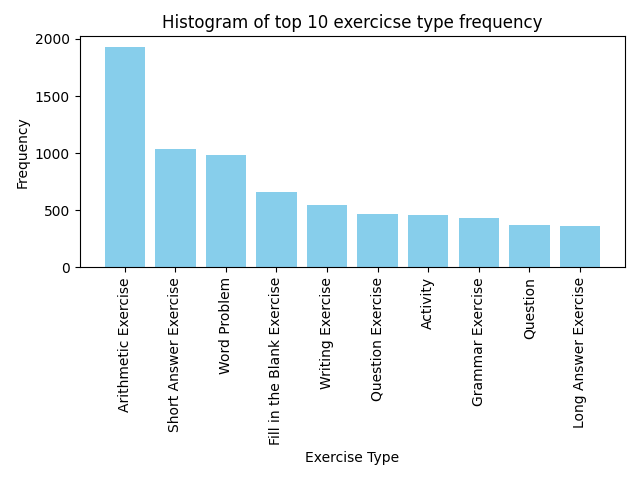
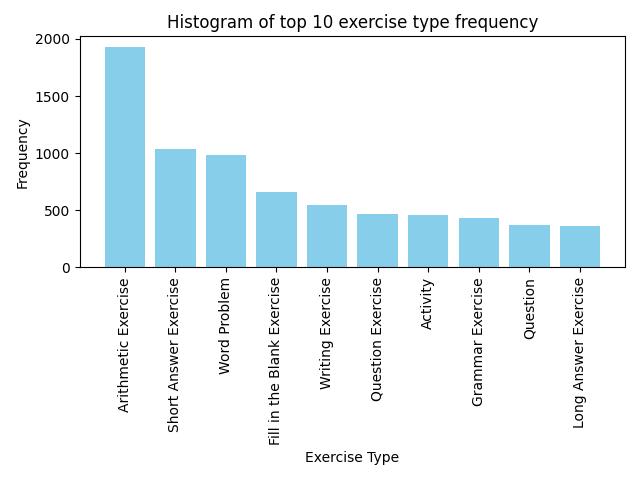
Implement multi-dimensional stratification

Changed region(s): [[0.25, 0.0312, 0.8438, 0.0625]]

diff --git a/preprocess.py b/preprocess.py
@@ -8,6 +8,220 @@ from collections import defaultdict
 from rapidfuzz import fuzz
 import matplotlib.pyplot as plt
 
+def get_removed(p: str, removed: dict) -> str:
+    # If parameter is an alias we output the source, otherwise output the origin
+    return removed[p] if removed[p] else p
+
+def get_param(q, param_idx, counts: dict = None, removed: dict = None, check_multi = False) -> str | bool:
+    single = True
+
+    # Get the header of the question
+    header = q.split("\n", 1)[0]
+
+    # Extract the parameter(s) from the header
+    param = get_params(header)[param_idx]
+
+    # Check for multi-parameter strings
+    if param_idx in (1, 3) and removed:
+        params = param.split(',')
+        single = len(params) == 1
+        c = 0
+        # Choose the parameter with the lowest count
+        for p in params:
+            # Check if the parameter is an alias
+            p = get_removed(p.strip(), removed)
+            if not c:
+                c = counts[p]
+
+            if counts[p] <= c:
+                param = p
+    else:
+        # Clean the parameter
+        param = param.strip()
+
+    return single if check_multi else param
+
+def stratify_and_recombine(splits: list, removed: dict, classify: tuple[bool, int], n_counts: dict = None, ratios = [7,2,1]) -> list:
+    new_splits = []
+
+    # Stratify by a certain parameter
+    for split in splits:
+        new_splits.append(stratified_split(split, removed, n_counts, ratios=ratios, classify=classify))
+
+
+    # Recombine the splits
+    merged = new_splits[0]
+    for sublist in new_splits[1:]:
+        for idx, d in enumerate(sublist):
+            if classify[0]:
+                for key, value in d.items():
+                    merged[idx][key].extend(value)
+            else:
+                merged[idx].extend(d)
+    
+    return merged
+
+def choice_logic(list1: list, list2: list) -> str | None:
+    """ Implements the logic for selecting a sample from two lists (unique and multi-class).
+    List1 gets priority over list2.
+
+    Args:
+        list1 (list): The primary list which we want to draw from.
+        list2 (list): The secondary list.
+
+    Returns:
+        str | None: A sample or None if both lists are empty. 
+    """
+    if len(list1) != 0:
+        return list1.pop()
+    elif len(list2) != 0:
+        return list2.pop()
+    else: 
+        return None
+
+def update_class(questions: list, counts: dict, param_idx: tuple[int, int], splits: list,
+                ratios: list, removed: dict = None, max_samples = 10, skip = False) -> None:
+    """ Allocates samples to a train, validation and test set using a stratification algorithm.
+    The train set has priority over the remainder of sets and also primarily obtains "unique" samples.
+    The validation set has priority over the test set and both primarily obtain multi-class samples.
+
+    Args:
+        questions (list): A list of questions containing questions pertaining to the class 'label'.
+        counts (dict): A dictionary of frequency of occurrence for the new class we are sorting the stratified set by.
+        param_idx (tuple[int, int]): The index position of the desired parameter we are counting while stratifying.
+        splits (list): A list containing the train, validation and test splits.
+        ratios (list): A list representing the ratio which we should follow in allocating samples to each respective set.
+        removed (dict, optional): A mapping of removed class labels to their new label. Defaults to None.
+        max_samples (int, optional): The maximum number of samples that we will allocate in this function call. Defaults to 10.
+        skip (bool, optional): Whether to treat the splits as dictionaries (False) or as lists (True). Defaults to False.
+    """
+
+    # Initialize a list to hold the different samples
+    multi, unique = [], []
+
+    # Split the questions on a basis of whether they have a unique or multi-class label
+    for q in questions: 
+
+        # Get the parameter used for stratification
+        single = get_param(q, param_idx[0], counts, removed, True)
+            
+        # Update the sub classes accordingly
+        (unique if single else multi).append(q)
+
+    # Initialize a 2^14 bit integer to keep track of the number of samples in each split
+    count = 0
+
+    for _ in range(len(questions)):
+        
+        # Check which split has priority
+        idx = find_idx(max_samples, count, ratios)
+  
+        # Select a sample based on the split we are allocating to
+        # Val/Test will always be idx 1 or 2
+        # Train will always be idx 0
+        # Val/Test sets prioritize multi-class parameters; Train set prioritizes unique
+        q = choice_logic(multi, unique) if idx else choice_logic(unique, multi)
+
+        # If q is None, we've run out of samples so we stop updating the split
+        if q == None:
+            return q
+        
+        # Update the counter for the class count in each split
+        count += (1 << (14 * idx))
+
+        if skip:
+            # Update the split without paying attention to class 
+            splits[idx].append(q)
+        else:
+            # Get the parameter used for classification
+            param = get_param(q, param_idx[1], counts, removed)
+
+            splits[idx][param].append(q)
+
+def find_idx(max_samples: int, splits: int | list, ratios: list) -> int:
+    """ Returns the index of the split that has the highest priority of allocation (based on the current percentages of samples allocated to each split).
+
+    Args:
+        max_samples (int): The maximum number of samples that we will allocate in this function call.
+        splits (int | list): A bit-representation of the count of this class in each set or a list containing the containers for each split.
+        ratios (list): A list representing the ratio which we should follow in allocating samples to each respective set.
+
+    Returns:
+        int: The index of the split which is next in line for allocation.
+    """
+    # Add all ratios together
+    total = sum(ratios)
+
+    # Compute the percentages of samples allocated to each split relative to their ideal allocations
+    if type(splits) == int:
+        percentages = [((splits >> (14 * i)) & 16383) * (total / (max_samples * r)) for i, r in enumerate(ratios)]
+    else:
+        percentages = [len(s) * (total / (max_samples * r)) for r, s in zip(ratios, splits)]
+
+    # Find the split with the smallest percentage allocation (relative to its ideal allocation)
+    # Splits get higher priority based on their positions
+    idx = 0
+    lowest = percentages[idx]
+    for i, p in enumerate(percentages[1:]):
+        if p < lowest:
+            lowest = p
+            idx = i + 1
+    return idx
+    
+
+def stratified_split(questions: dict, removed: dict = None, n_counts: dict = None, n_splits = 3, ratios = [6, 2, 2], classify: tuple[bool, tuple[int, int]] = (False, None)) -> list:
+    """ Performs a stratified split on a dataset.
+
+    Args:
+        questions (dict): A dictionary mapping labels to subsets of questions.
+        removed (dict): A dictionary mapping parameter names to their general parameter assigned after grouping.
+        f_counts (dict): A dictionary of counts for the next parameter we will use to stratify.
+        n_splits (int, optional): The total number of splits to perform. Defaults to 3.
+        ratios (list, optional): A list representing the ratio which we should follow in allocating samples to each respective set.. Defaults to [7, 2, 1].
+        classify (tuple[bool, tuple[int, int]], optional): A tuple determining whether there will be more classes to stratify and the current class to stratify. Defaults to (False, None).
+
+    Returns:
+        list: A list containing the individual splits obtained post-stratification.
+    """
+    # Sort the data from smallest to largest count of occurence
+    sorted_data = sorted(questions.items(), key = lambda x: len(x[1]))
+
+    # Initialize lists for each split
+    if classify[0]:
+        splits = [defaultdict(list) for _ in range(n_splits)]
+    else:
+        splits = [[] for _ in range(n_splits)]
+
+    # Cycle through each class and the counts of samples per class
+    for item in sorted_data:
+
+        # Count the amount of samples per class we can allocate to each split
+        leftover = len(item[1]) % 10
+
+        # Compute the max number of samples divisible by 10
+        max_samples = len(item[1]) - leftover
+
+        if len(item[1]) >= 10:
+            # Partition the maximum amount of samples of this class that is divisible by 10
+            update_class(questions[item[0]][:max_samples], n_counts, classify[1], splits, ratios, removed, max_samples, skip = not classify[0])
+
+        # Add the leftover samples if there are any
+        if leftover:
+            update_class(questions[item[0]][-leftover:], n_counts, classify[1], splits, ratios, removed,skip = not classify[0])
+        
+    return splits
+
+def plot_dist_top_n(d: dict, title: str, xlab: str, path: str, n: int = False) -> None:
+    n = n if n else len(d)
+    # Sort the dictionary based on the values
+    items = sorted(d.items(), key = lambda x: x[1], reverse = True)[:n]
+    # Extract the counts and labels separately
+    counts = [item[1] for item in items]
+    labels = [item[0] for item in items]
+    # Plot the histogram of the data
+    plot_dist(labels, counts, title, xlab, path)
+
+
 def plot_dist(labels: list, counts: list, title: str, xlab: str, path: str) -> None:
     # Plot the bar chart
     plt.bar(labels, counts, color='skyblue')
@@ -28,7 +242,7 @@ def plot_dist(labels: list, counts: list, title: str, xlab: str, path: str) -> N
     # Clear the plot
     plt.clf()
 
-def group_params(path: str) -> defaultdict:
+def group_params(path: str, keep_qs = False) -> defaultdict:
     # Create a dictionary of parameters
     params = defaultdict(set)
     # Initialize a mapping for removed parameters to present parameters
@@ -37,6 +251,8 @@ def group_params(path: str) -> defaultdict:
     # Initialize a counter for parameters
     for k in 'CSTGM':
         params[f'C_{k}'] = defaultdict(int)
+    # Initialize a dict to classify questions by subject
+    params[f'Q_S'] = defaultdict(list)
 
     # Populate the dictionary of parameters while combining like terms
     for q in get_questions(path):
@@ -101,6 +317,9 @@ def group_params(path: str) -> defaultdict:
                 combi += v
                 # Update the count for this specific parameter
                 params[f'C_{k}'][v] += 1
+                # Save the questions by subject if requested
+                if keep_qs and k == 'S':
+                    params[f'Q_{k}'][v].append(q)
             if k in 'STG':
                 combi += '|'
         # Update the count for this combination of parameters
@@ -321,6 +540,10 @@ if __name__ == "__main__":
     parser_i.add_argument("-t", help="Keep the dataset in a .txt file, otherwise save it as a .csv", action="store_true")
 
     parser_v = subparsers.add_parser("v", help="Visualize the distributions of the inputs")
+    parser_v.add_argument("-p", help="Plot the frequency distributions of the data's classes",action="store_true")
+
+    parser_s = subparsers.add_parser("s", help="Perform a stratified split on a dataset to obtain training, validation and test subsets.")
+    parser_s.add_argument("ratio", help="The desired ratio for the set's train/val/test split, in the format 'x,y,z'")
 
     # Parse the arguments
     args = argparser.parse_args()
@@ -351,28 +574,52 @@ if __name__ == "__main__":
               '\nNumber of modifiers:', len(params['M']),
               '\nNumber of unique combinations:', len(params['C_C']))
         
-        # Plot the distribution of the subjects
-        s_s = sorted(params['C_S'].items(), key=lambda x: x[1], reverse=True)
-        plot_dist([item[0] for item in s_s], [item[1] for item in s_s], 'Histogram of subject frequency', 'Subject', 'subject_dist.png')
+        if args.p:
+            # Plot the distribution of the subjects
+            plot_dist_top_n(params['C_S'], 'Histogram of subject frequency', 'Subject', 'subject_dist.png')
 
-        # Plot the distribution of the grades
-        plot_dist(list(params['C_G'].keys()), list(params['C_G'].values()), 'Histogram of grade frequency', 'Grade', 'grade_dist.png')
+            # Plot the distribution of the grades
+            plot_dist(list(params['C_G'].keys()), list(params['C_G'].values()), 'Histogram of grade frequency', 'Grade', 'grade_dist.png')
 
-        # Sort the dictionary by its values in descending order and take the top 10
-        top_10 = sorted(params['C_T'].items(), key=lambda x: x[1], reverse=True)[:10]
-        # Plot the distribution of the top 10 exercise types
-        plot_dist([item[0] for item in top_10], [item[1] for item in top_10], 'Histogram of top 10 exercicse type frequency', 'Exercise Type', 'ex_type_dist.png')
+            # Plot the distribution of the top 10 exercise types
+            plot_dist_top_n(params['C_T'], 'Histogram of top 10 exercise type frequency', 'Exercise Type', 'ex_type_dist.png', 10)
+            
+            # Plot the distribution of the top 10 modifiers
+            plot_dist_top_n(params['C_M'], 'Histogram of top 10 modifier frequency', 'Modifier', 'modifier_dist.png', 10)
 
-        # Sort the dictionary by its values in descending order and take the top 10
-        top_10 = sorted(params['C_M'].items(), key=lambda x: x[1], reverse=True)[:10]
-        # Plot the distribution of the top 10 modifiers
-        plot_dist([item[0] for item in top_10], [item[1] for item in top_10], 'Histogram of top 10 modifier frequency', 'Modifier', 'modifier_dist.png')
-
-        # Sort the dictionary by its values in descending order and take the top 10
-        top_10 = sorted(params['C_C'].items(), key=lambda x: x[1], reverse=True)[:10]
-        # Plot the distribution of the top 10 combinations
-        plot_dist([item[0] for item in top_10], [item[1] for item in top_10], 'Histogram of top 10 combination frequency', 'Combination', 'comb_dist.png')
+            # Plot the distribution of the top 10 combinations
+            plot_dist_top_n(params['C_C'], 'Histogram of top 10 combination frequency', 'Combination', 'comb_dist.png', 10)
         
+        sorted_top = sorted(params['C_M'].items(), key=lambda x: x[1], reverse=True)
+        top_n = [item[1] for item in sorted_top if item[1] > 2]
+        print(len(top_n))
+        print(f"top {len(top_n)} modifiers account for {100 * sum(top_n)/sum(x[1] for x in params['C_M'].items())}% of data")
+
+        sorted_top = sorted(params['C_T'].items(), key=lambda x: x[1], reverse=True)
+        top_n = [item[1] for item in sorted_top if item[1] > 2]
+        print(len(top_n))
+        print(f"top {len(top_n)} account for {100 * sum(top_n)/sum(x[1] for x in params['C_T'].items())}% of data")
 
     elif args.key == 's':
-        pass
+        # Parse the desired ratios
+        if args.ratio:
+            ratios = [int(r) for r in args.ratio.split(',')]
+
+        # Stratified sampling of dataset
+        params = group_params('data/questions.txt', True)
+
+        # STEP 1: Stratify by Subject and partition by grade labels
+        splits = stratified_split(params['Q_S'], classify=(True, (0, 2)), ratios=ratios)
+
+        # STEP 2-4: Stratify by Grade and partition by exercise type labels
+        # then, stratify by Exercise Type and partition by modifier labels
+        # and finally stratify by modifier
+        for removed, classify, counter in zip([params['R_T'], params['R_M'], params['R_M']],
+                                              [(True, (2, 1)),  (True, (1, 3)),  (False, (3, 3))],
+                                              [params['C_T'], params['C_M'], params['C_M']]):
+            splits = stratify_and_recombine(splits, removed, classify, counter, ratios)
+
+        # Compute the total number of samples.
+        total = sum(len(s) for s in splits)
+        # Compute and output the percentage of the dataset that each split represents.
+        print(f"Final set composition:\n\nTrain: {len(splits[0]) * 100 / total:.2f}%\nVal: {len(splits[1]) * 100 / total:.2f}%\nTest: {len(splits[2]) * 100 / total:.2f}%")
